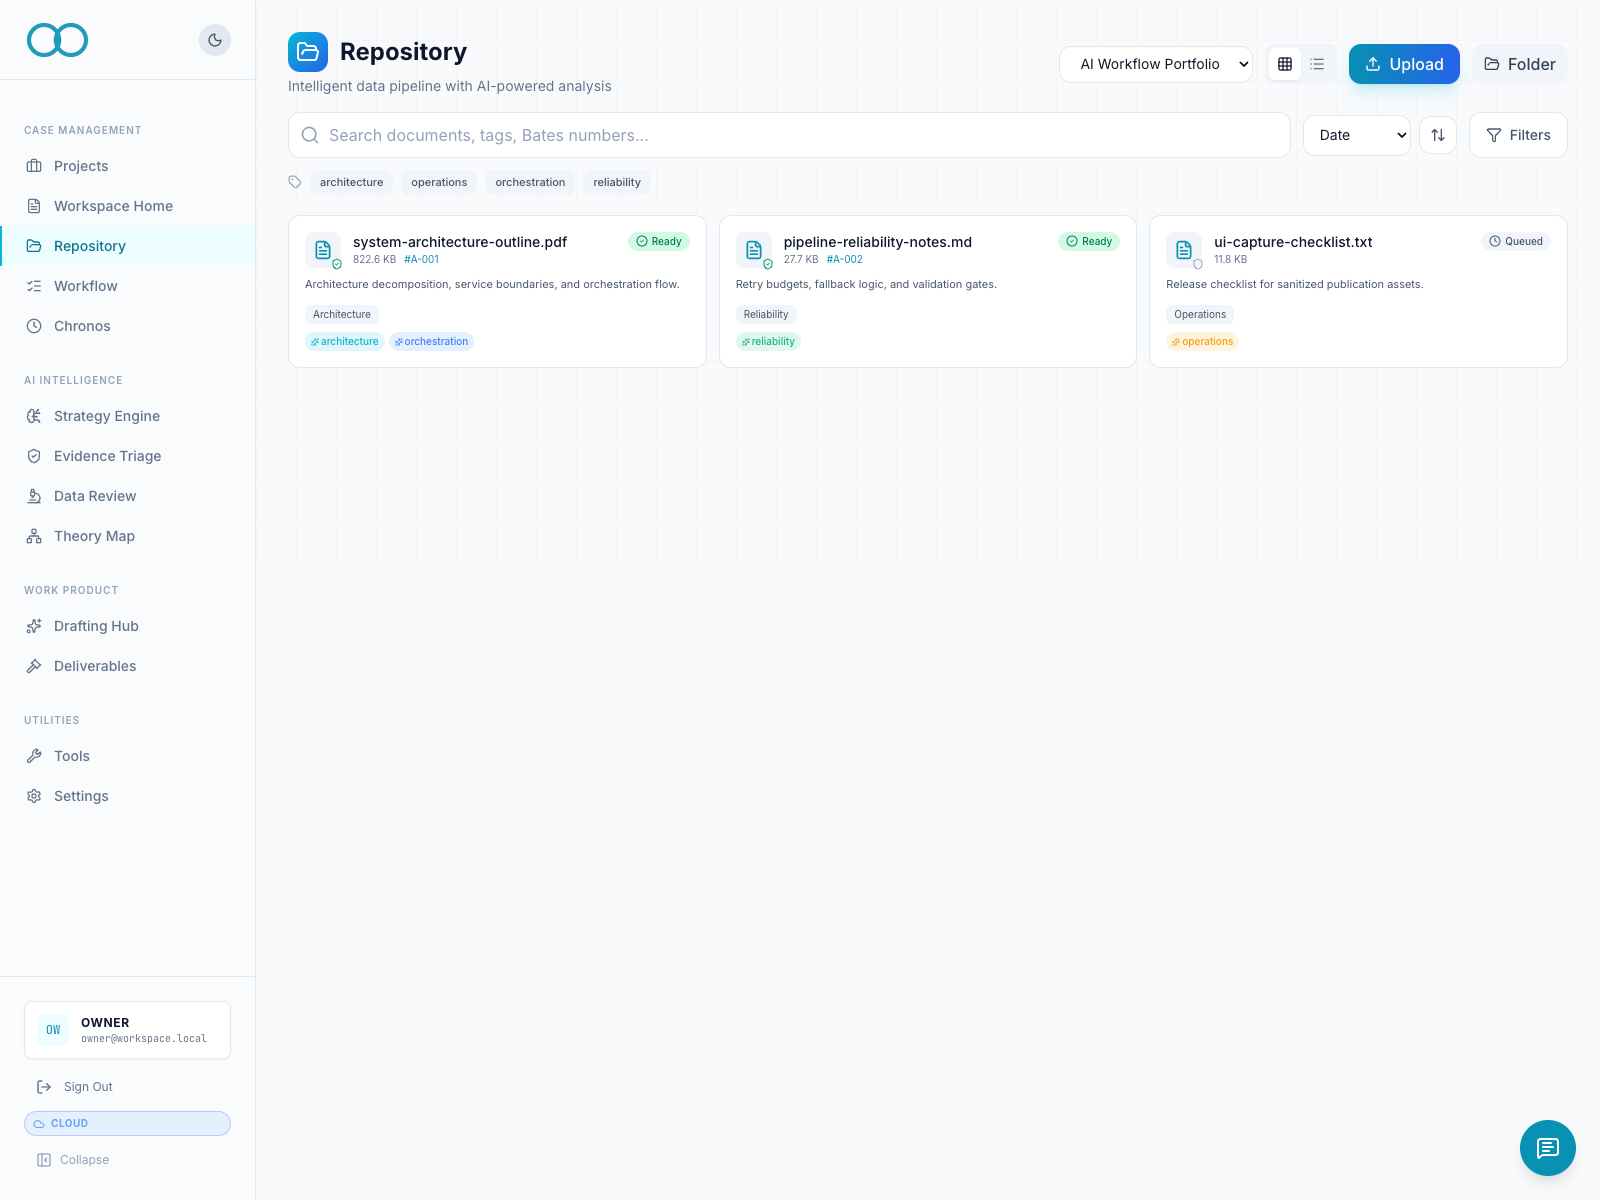
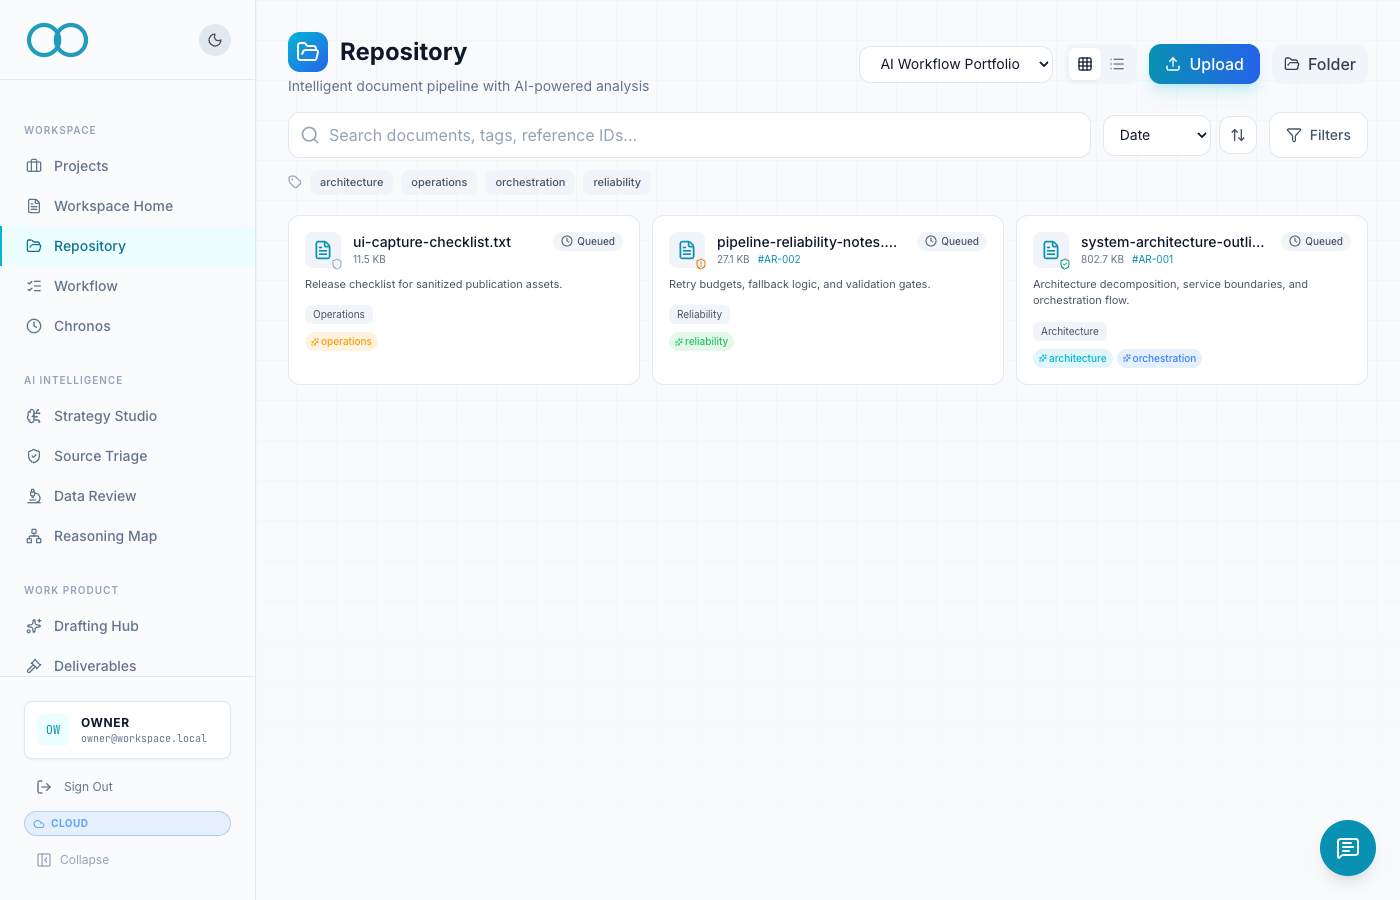
Refocus portfolio storytelling

diff --git a/README.md b/README.md
@@ -34,11 +34,14 @@ Verification date: `2026-02-18`
 ## Visual Walkthrough
 
 - [`docs/VISUAL-WALKTHROUGH.md`](docs/VISUAL-WALKTHROUGH.md)
+- [`docs/VISUAL-WALKTHROUGH-AUTHENTICATED.md`](docs/VISUAL-WALKTHROUGH-AUTHENTICATED.md)
 - [`docs/SYSTEMS-ARCHITECTURE.md`](docs/SYSTEMS-ARCHITECTURE.md)
 
 ![Sanitized UI Desktop](assets/screenshots/ui-overview-desktop-sanitized.png)
 
 ![Sanitized UI Mobile](assets/screenshots/ui-overview-mobile-sanitized.png)
+
+![Sanitized Authenticated Workflow Module](assets/screenshots/ui-module-workflow-auth-sanitized.png)
 
 ## Drift Check
 
@@ -48,6 +51,7 @@ Verification date: `2026-02-18`
 
 - [`docs/SYSTEMS-ARCHITECTURE.md`](docs/SYSTEMS-ARCHITECTURE.md)
 - [`docs/VISUAL-WALKTHROUGH.md`](docs/VISUAL-WALKTHROUGH.md)
+- [`docs/VISUAL-WALKTHROUGH-AUTHENTICATED.md`](docs/VISUAL-WALKTHROUGH-AUTHENTICATED.md)
 - [`docs/ARCHITECTURE-DRIFT-CHECK.md`](docs/ARCHITECTURE-DRIFT-CHECK.md)
 - [`docs/SKILLS-EVIDENCE-MATRIX.md`](docs/SKILLS-EVIDENCE-MATRIX.md)
 - [`docs/CASE-STUDY-TEMPLATE.md`](docs/CASE-STUDY-TEMPLATE.md)
@@ -58,7 +62,7 @@ Verification date: `2026-02-18`
 
 ## Update Workflow
 
-1. Refresh counts from private source with `scripts/architecture_snapshot.sh`.
+1. Refresh counts from private source with `scripts/architecture_snapshot.sh <private-repo-path>`.
 2. Update architecture or case-study docs.
 3. Verify every claim has a measurement source.
 4. Copy `.portfolio-sensitive-terms.example.txt` to `.portfolio-sensitive-terms.txt` and add private terms.

diff --git a/docs/VISUAL-WALKTHROUGH-AUTHENTICATED.md b/docs/VISUAL-WALKTHROUGH-AUTHENTICATED.md
@@ -1,0 +1,37 @@
+# Authenticated Visual Walkthrough
+
+All images in this document are sanitized authenticated UI captures rendered from the private application with mocked auth and fixture data.
+
+## Strategy Studio
+
+![Sanitized Authenticated Strategy Module](../assets/screenshots/ui-module-strategy-auth-sanitized.png)
+
+## Repository
+
+![Sanitized Authenticated Repository Module](../assets/screenshots/ui-module-repository-auth-sanitized.png)
+
+## Workflow Orchestrator
+
+![Sanitized Authenticated Workflow Module](../assets/screenshots/ui-module-workflow-auth-sanitized.png)
+
+## Module Surface Map
+
+```mermaid
+flowchart LR
+    A["Authenticated Shell"] --> B["Strategy Studio"]
+    A --> C["Repository"]
+    A --> D["Workflow Orchestrator"]
+    B --> E["Analysis Trigger + Version Surface"]
+    C --> F["Document Pipeline + Retrieval Surface"]
+    D --> G["Stage Timeline + Schedule Surface"]
+```
+
+## Capture Boundary
+
+```mermaid
+flowchart LR
+    UI["Rendered UI Route"] --> API["Route-Scoped API Mocks"]
+    API --> FIX["Synthetic Fixture Payloads"]
+    FIX --> SAN["DOM Text Sanitization"]
+    SAN --> IMG["Published Screenshot Asset"]
+```

diff --git a/docs/SKILLS-EVIDENCE-MATRIX.md b/docs/SKILLS-EVIDENCE-MATRIX.md
@@ -11,7 +11,7 @@
 | Provenance | `docs/SYSTEMS-ARCHITECTURE.md` | source metadata path documented |
 | Privacy/IP controls | `docs/PRIVACY_IP_GUARDRAILS.md` | publication boundaries documented |
 | Delivery outcomes | case studies using `docs/CASE-STUDY-TEMPLATE.md` | claims include before/after + method |
-| Visual implementation proof | `docs/VISUAL-WALKTHROUGH.md` | sanitized desktop/mobile captures included |
+| Visual implementation proof | `docs/VISUAL-WALKTHROUGH.md`, `docs/VISUAL-WALKTHROUGH-AUTHENTICATED.md` | sanitized landing and authenticated module captures included |
 | Architecture currency check | `docs/ARCHITECTURE-DRIFT-CHECK.md` | stale claims identified with code-level counts |
 
 ## Claim Format

diff --git a/docs/VISUAL-WALKTHROUGH.md b/docs/VISUAL-WALKTHROUGH.md
@@ -2,6 +2,8 @@
 
 All images in this document are sanitized render captures from the private application UI.
 
+Authenticated module renders: [`docs/VISUAL-WALKTHROUGH-AUTHENTICATED.md`](VISUAL-WALKTHROUGH-AUTHENTICATED.md)
+
 ## Desktop View
 
 ![Sanitized Desktop UI](../assets/screenshots/ui-overview-desktop-sanitized.png)
